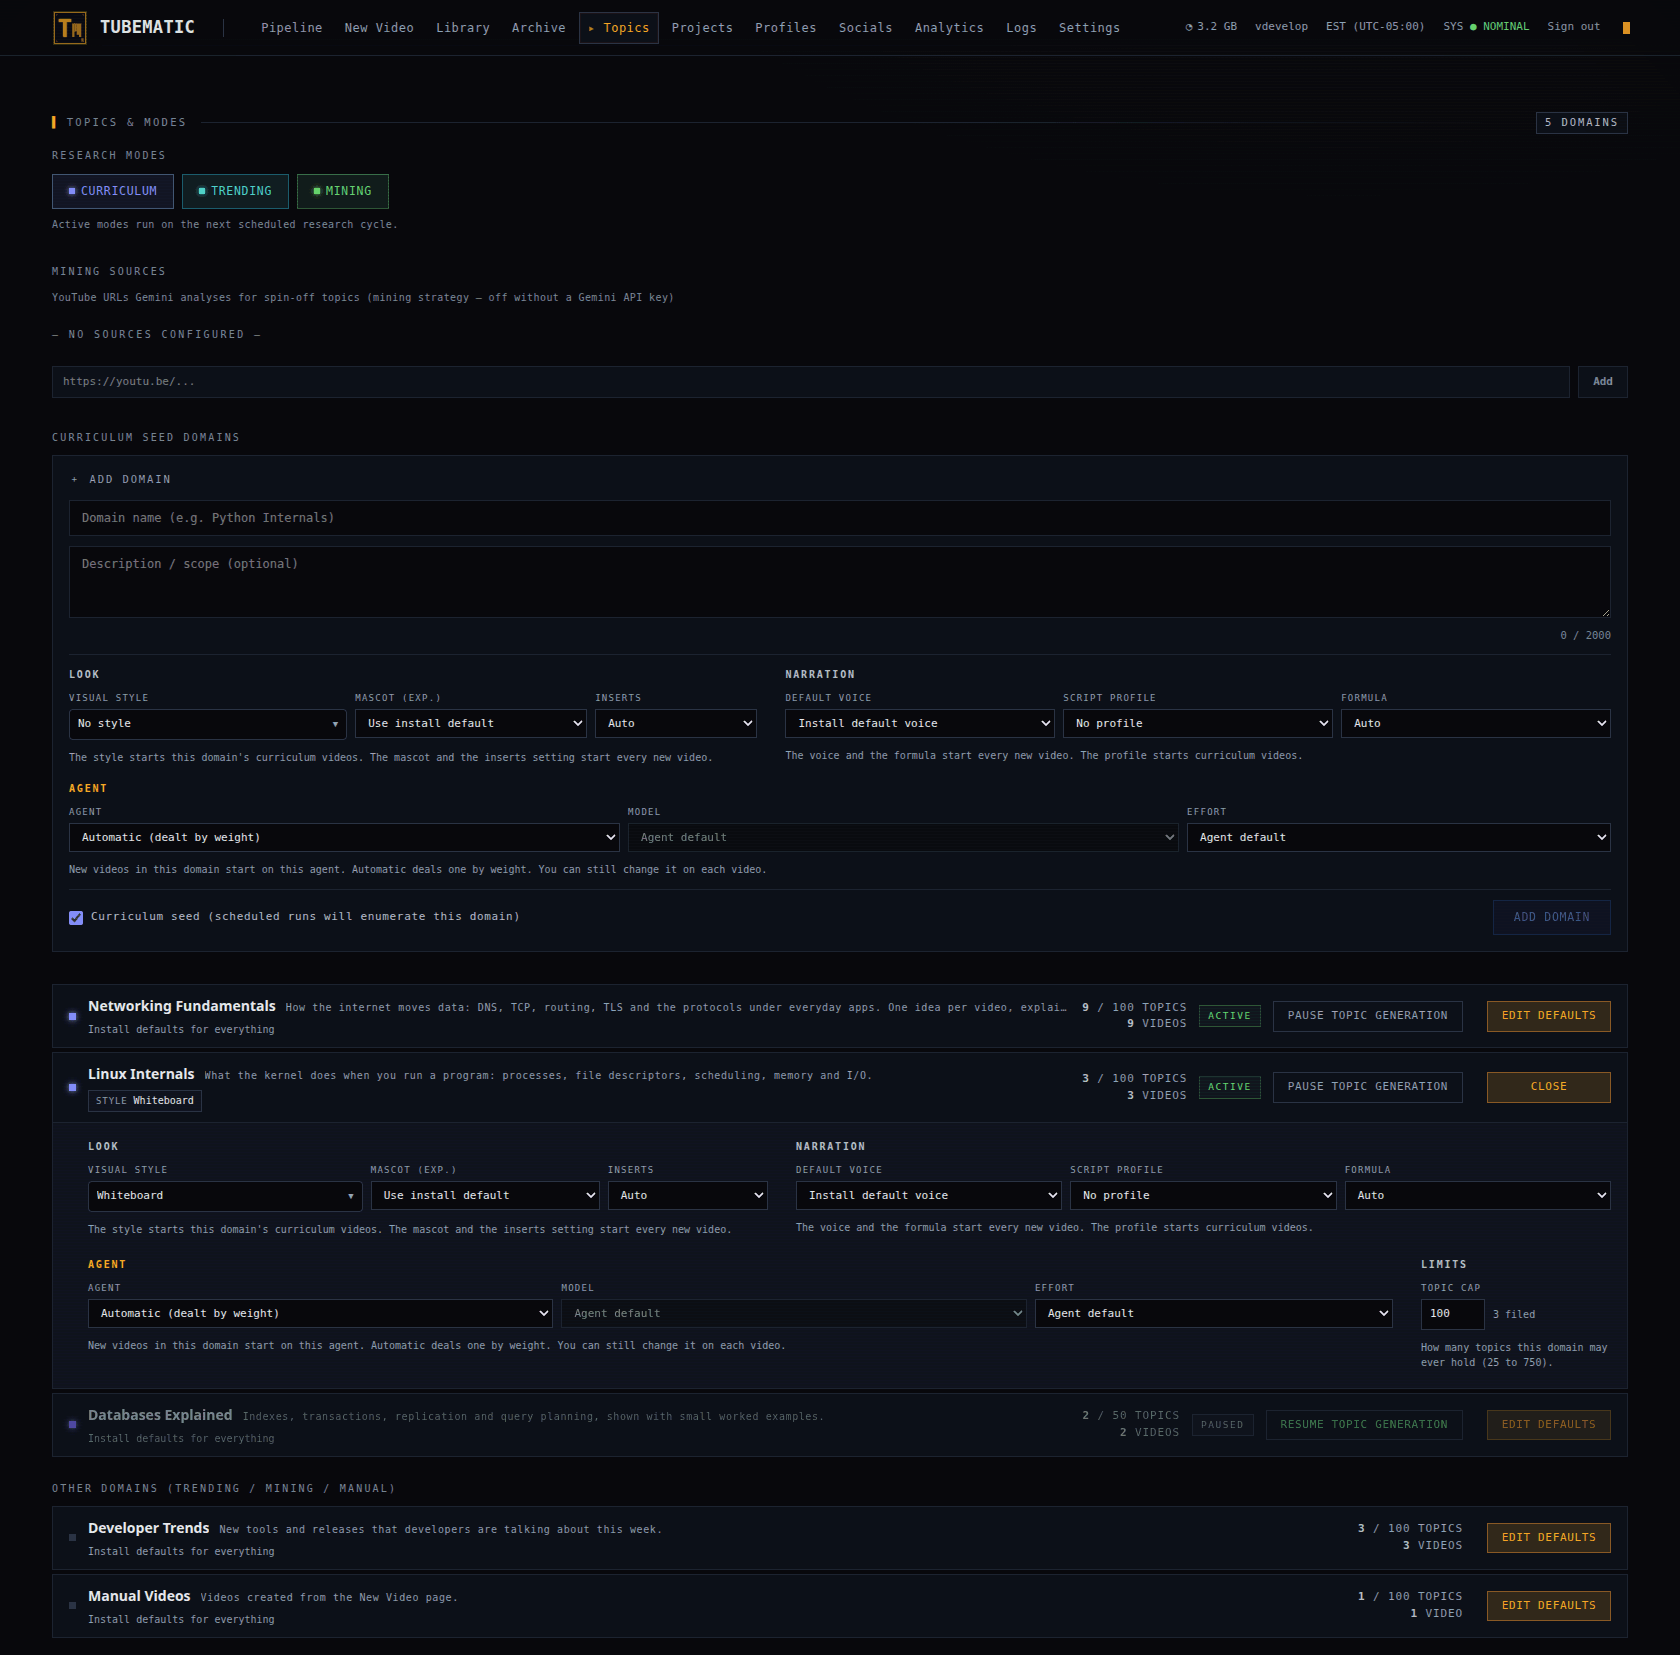
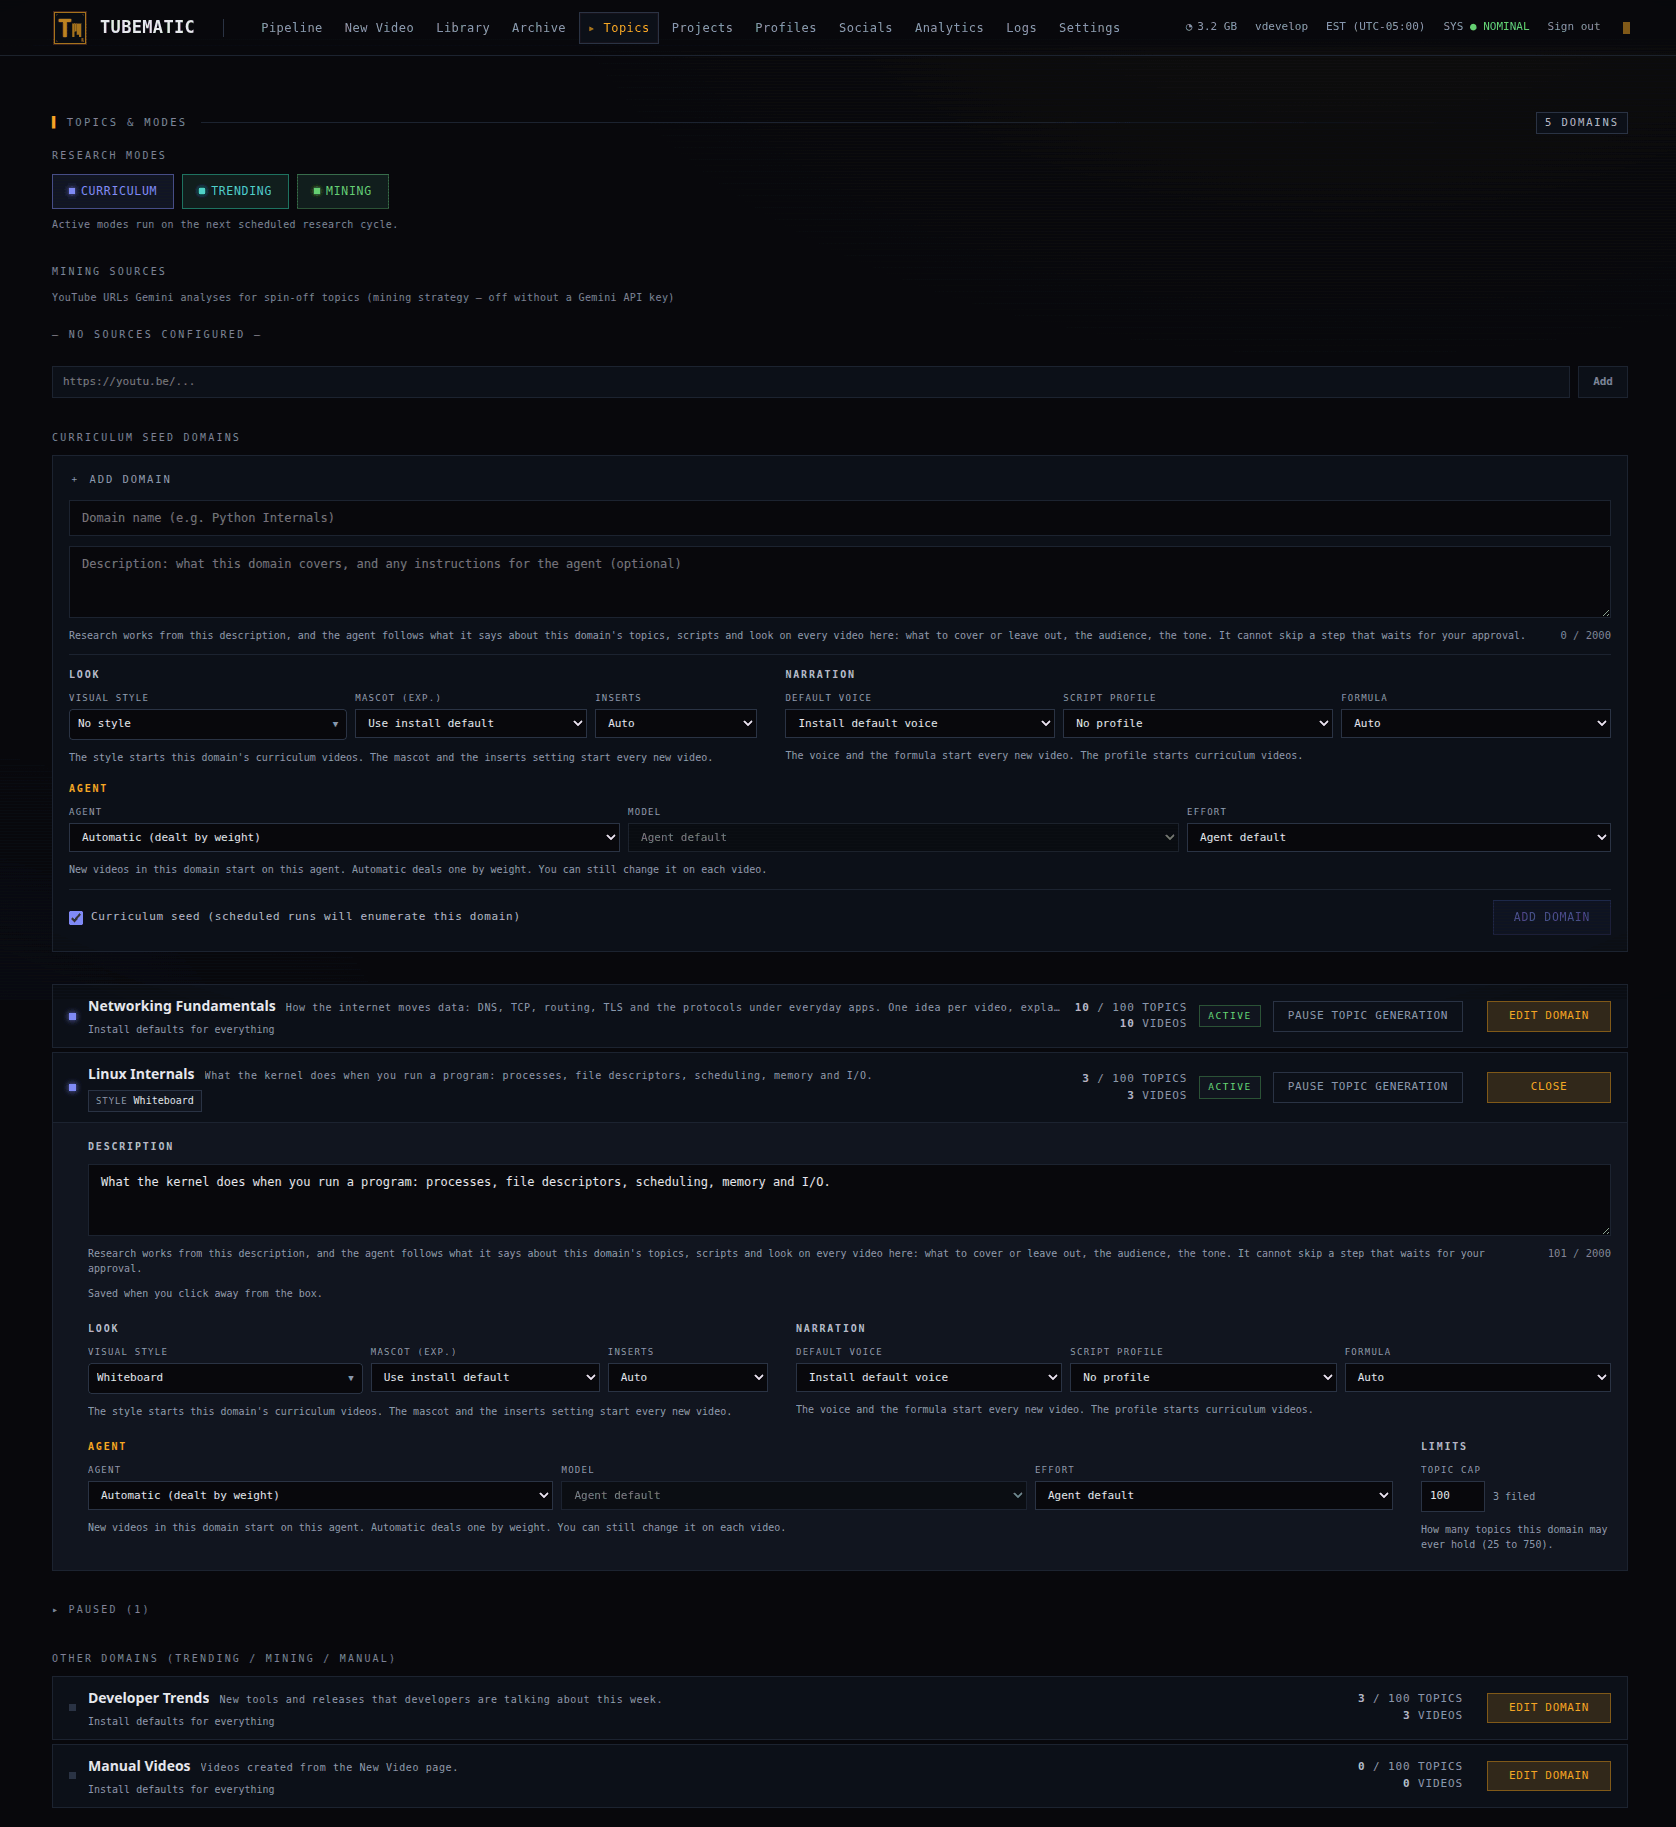
Retake the Topics screenshot: Edit domain, the description box in the open row and the closed Paused group (TMDEV-256)
Claude-Session: https://claude.ai/code/session_01DnMpuPxX1yqcK6Kqa8m945

diff --git a/docs/user-guide/03-using-tubematic.md b/docs/user-guide/03-using-tubematic.md
@@ -160,7 +160,7 @@ script and records it on the video. When your topic offers none, the agent says 
 and writes the script from the topic alone. The same happens to a topic that was proposed before
 angles existed.
 
-![The Topics page: three research mode switches, a list of mining sources, the form that adds a domain, and one row per domain with its pause button and its Edit domain button. The second domain is open and shows its description, style, inserts, voice, formula, agent and topic cap](../images/topics.png)
+![The Topics page: three research mode switches, a list of mining sources, the form that adds a domain with its description box, one row per domain with its pause button and its Edit domain button, and a closed Paused group. The second domain is open and shows its description, style, inserts, voice, formula, agent and topic cap](../images/topics.png)
 
 ### Adding a domain
 
